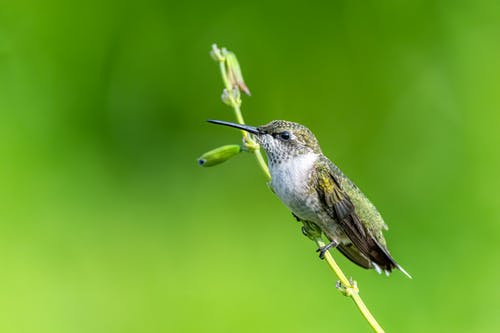
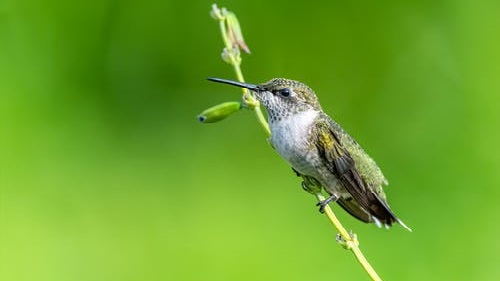
My First Complete Website

Changed region(s): [[0.39, 0.0, 0.84, 0.911], [0.81, 0.0569, 0.9, 0.1708], [0.72, 0.911, 0.78, 1.0]]

diff --git a/style.css b/style.css
@@ -266,8 +266,16 @@
     border-collapse: collapse;
     table-layout: fixed;
     column-width: 50%;
-    padding: 10px;
+    padding: 8px;
+    object-fit: fill;
+    max-width: 100%;
+    margin-left: 4rem;
+    margin-bottom: 1rem;
+    border-spacing: 1rem;
+    padding-bottom: 1rem;
+    
 }
+
 
 .watching {
     margin-top: 1rem;
